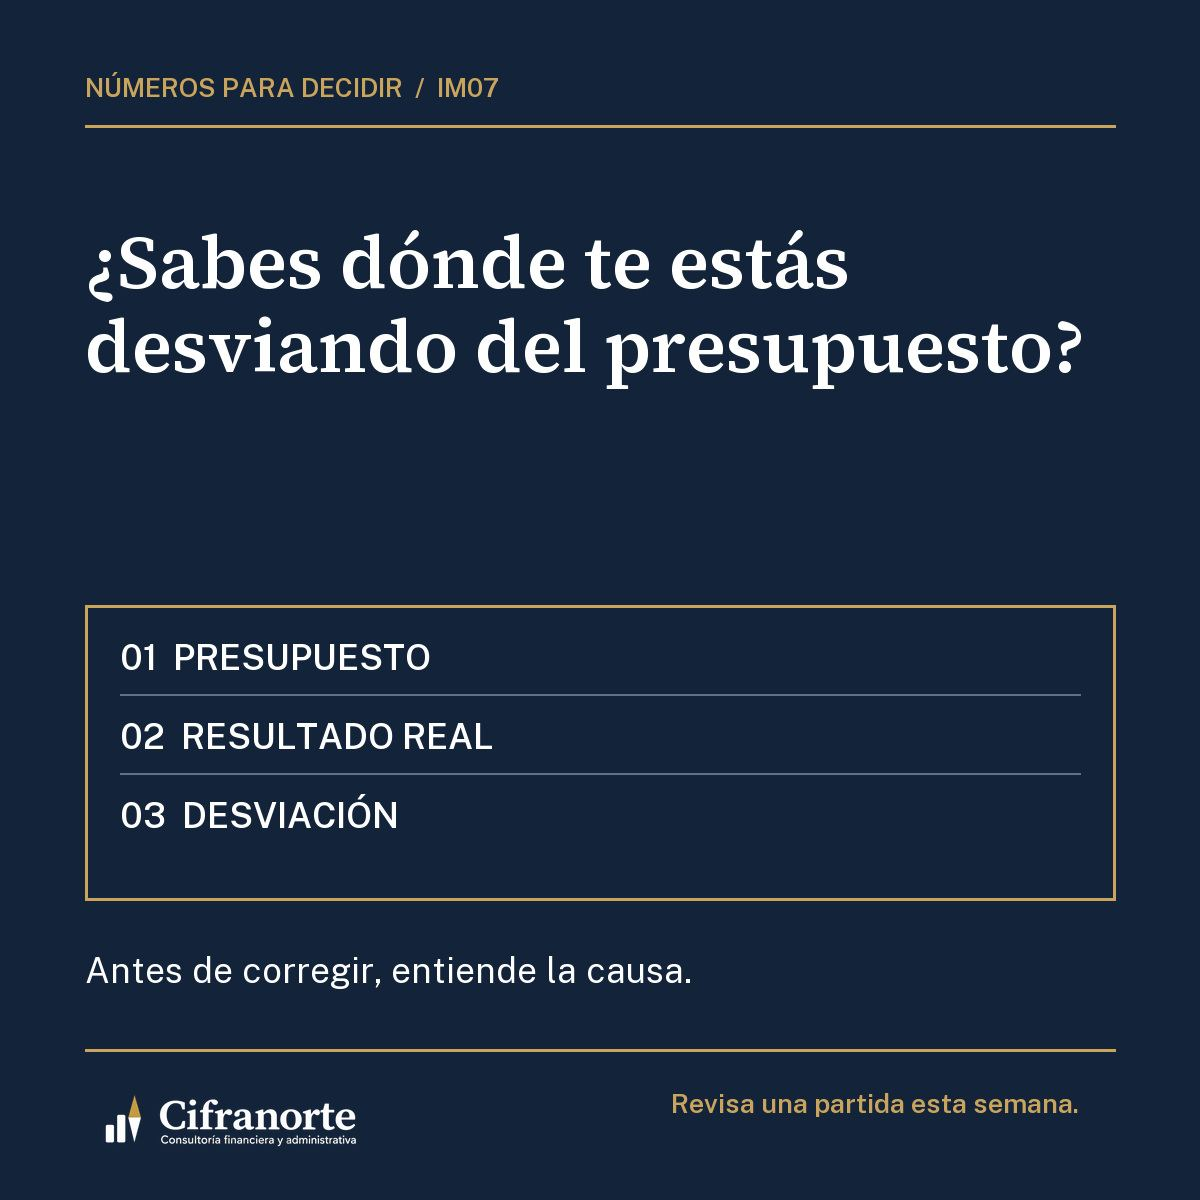
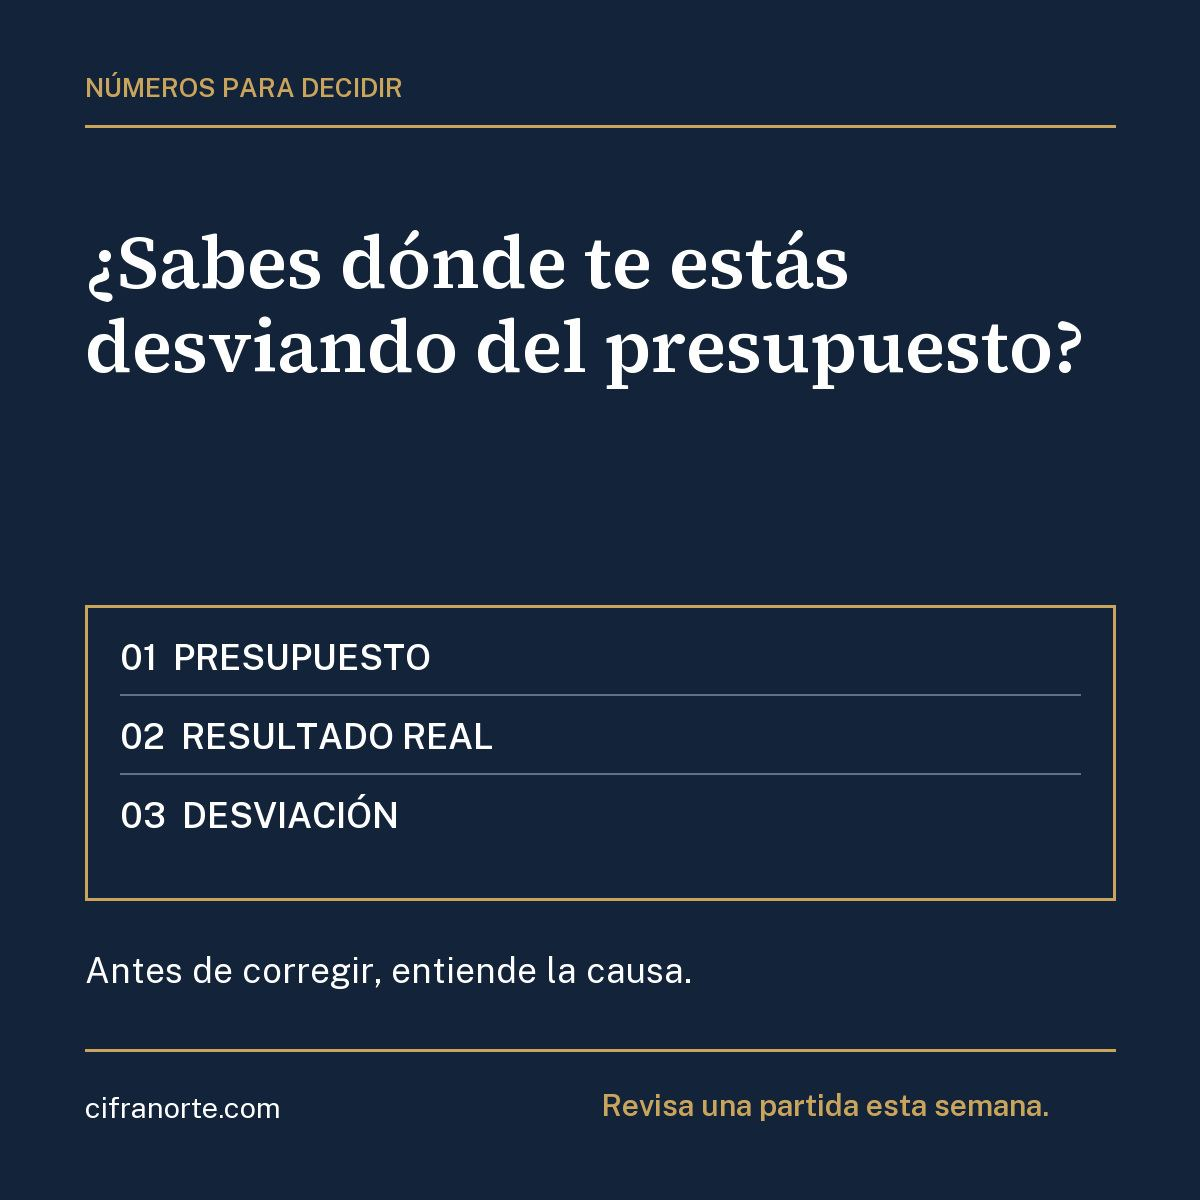
IM07: aplicar correcciones del primer dictamen de Claude

Changed region(s): [[0.4933, 0.8942, 0.8942, 0.9558], [0.0617, 0.8942, 0.3083, 0.9558], [0.3392, 0.0617, 0.4317, 0.0925]]

diff --git a/publicaciones/IM07_Guion_Editorial.md b/publicaciones/IM07_Guion_Editorial.md
@@ -5,14 +5,14 @@ Estado: producción en revisión. Ningún texto ni pieza está aprobado por Hugo
 ## Secuencia Instagram · 7 láminas
 
 1. **Portada.** «Presupuestar es el inicio. Comparar es lo que permite corregir.»
-2. **Presupuesto.** «1 / PRESUPUESTO» / «Define la referencia.» / «Qué esperabas para una partida y un periodo. Esa es la base para comparar.»
+2. **Presupuesto.** «1 / PRESUPUESTO» / «Define la referencia.» / «Lo que esperabas para una partida y un periodo. Esa es la base para comparar.»
 3. **Resultado real.** «2 / RESULTADO REAL» / «Observa lo que pasó.» / «Registra lo ocurrido en esa misma partida y en ese mismo periodo.»
-4. **Desviación.** «3 / DESVIACIÓN» / «Encuentra la diferencia.» / «Compara ambos resultados. La diferencia te indica dónde conviene investigar.»
-5. **Causa.** «La diferencia no se interpreta sola.» / «No es automáticamente un error. Revisa qué cambió: volumen, precio, momento o una decisión del periodo.»
-6. **Decisión.** «4 / DECISIÓN» / «Elige qué hacer.» / «Con la causa clara, ajusta una acción, actualiza la previsión o da seguimiento. Define responsable y fecha.»
-7. **Cierre.** «Una referencia para decidir» / «01 Presupuesto · 02 Resultado real · 03 Desviación · 04 Causa · 05 Decisión» / «Guarda el proceso.»
+4. **Desviación.** «3 / DESVIACIÓN» / «Encuentra la diferencia.» / «Compara lo planeado con lo real. La diferencia te indica dónde conviene investigar.»
+5. **Causa.** «4 / CAUSA» / «La diferencia no se interpreta sola.» / «No es automáticamente un error. Revisa qué cambió: volumen, precio, fechas de compra o cobro, o una decisión del periodo.»
+6. **Decisión.** «5 / DECISIÓN» / «Elige qué hacer.» / «Con la causa clara, ajusta una acción, actualiza la previsión o da seguimiento. Define responsable y fecha.»
+7. **Cierre.** «Una referencia para decidir» / «01 Presupuesto · 02 Resultado real · 03 Desviación · 04 Causa · 05 Decisión» / «Guarda el proceso.» / «cifranorte.com».
 
-La numeración de cuatro fases conserva la base conceptual aprobada; la causa es el paso de análisis entre desviación y decisión.
+La base conceptual aprobada conserva sus cuatro nodos principales; la causa se hace explícita como quinto paso de análisis entre desviación y decisión. La trayectoria usa cinco puntos en las láminas 02–06.
 
 ## Facebook · texto exacto dentro del gráfico
 
@@ -24,12 +24,14 @@ La numeración de cuatro fases conserva la base conceptual aprobada; la causa es
 
 «Revisa una partida esta semana.»
 
+Pie: «cifranorte.com».
+
 ## Dirección visual
 
 - Instagram: 1080 × 1350 px, siete JPG; Facebook: 1200 × 1200 px, un JPG.
 - Fuente oficial Source Serif 4 para titulares y Public Sans para información. Azul marino #13233A, dorado #C9A45C, blanco y superficie #F3F4F1. No usar colores de estado: aquí ninguna desviación está clasificada.
 - Retícula y línea Norte discretas; trayectoria ortogonal para conectar etapas. La comparación es conceptual, sin barras ni cifras que aparenten datos reales.
-- Logo horizontal oficial con área libre. Titulares amplios, texto breve, contraste alto y márgenes generosos.
+- Sin logotipo, siguiendo la firma aprobada por Hugo en IM06; «cifranorte.com» solo en el cierre del carrusel y en el pie del gráfico único. Titulares amplios, texto breve, contraste alto y márgenes generosos.
 
 ## Base documental
 

diff --git a/publicaciones/IM07_ESTADO.md b/publicaciones/IM07_ESTADO.md
@@ -1,6 +1,6 @@
 # IM07 · Estado de producción
 
-Fecha de registro: 9 de octubre de 2026. Estado: **borrador para revisión de Claude y Hugo**. Ninguna pieza de IM07 está aprobada ni programada.
+Fecha de registro: 9 de octubre de 2026. Estado: **primera revisión de Claude recibida; correcciones aplicadas, segunda revisión pendiente**. Ninguna pieza de IM07 está aprobada ni programada.
 
 ## Versión a revisar
 
@@ -8,12 +8,13 @@ Fecha de registro: 9 de octubre de 2026. Estado: **borrador para revisión de Cl
 - Instagram, 22 de octubre: `2026-10-22_instagram_IM07/COPY.txt` y `01.jpg`–`07.jpg` (carrusel).
 - Facebook, 22 de octubre: `2026-10-22_facebook_IM07/COPY.txt` y `01.jpg` (gráfico único + texto).
 - Guion editorial y dirección visual: `IM07_Guion_Editorial.md`.
+- Primer dictamen: `IM07_Dictamen_Claude_1.md`. LinkedIn apto; Instagram y Facebook requerían correcciones que se aplicaron en esta versión. Los tres COPY.txt no cambiaron.
 
 El Calendario Editorial v0.1 conserva hooks, CTA, formatos, objetivos y fechas. La secuencia añade la pregunta por la causa entre desviación y decisión. No hay cifras, testimonios ni casos reales en estas piezas. Una desviación no se presenta automáticamente como error.
 
-## Solicitud de dictamen a Claude
+## Revisión de Claude
 
-Revisar fidelidad a la Estrategia Editorial v0.1, al Calendario Editorial v0.1, al Manual de Identidad v2.1, al Método Rumbo y al ICP + Buyer Persona v0.1. Cotejar los tres copys y las ocho imágenes de este commit. Valorar claridad para dueño/director de pyme mexicana, criterio financiero, precisión sobre desviaciones, legibilidad y coherencia visual. Registrar hallazgos concretos por canal y dictamen apto/no apto. Las propuestas de cambio no equivalen a aprobación de Hugo.
+Primer dictamen en el [hilo del proyecto](https://claude.ai/code/project/chan_01PSVxPHWpw1gker4ESD36Tn?thread=cmsg_01PSVxPHWpw1gker4ESD36TnTnhx7e4X5FJa4MPwGyHs27), sobre commit `dc7920b08eb2a926b94a66aca038374c3d5bac4e`. Se retiraron logos y códigos internos de las piezas; se añadió `cifranorte.com` a los cierres; se corrigieron numeración, línea de avance y la frase «Compara lo planeado con lo real». Los detalles constan en el dictamen. Falta segunda revisión del commit corregido, con examen visual y cotejo del guion. Las propuestas de Claude no equivalen a aprobación de Hugo.
 
 ## Programación
 

diff --git a/publicaciones/IM07_Dictamen_Claude_1.md b/publicaciones/IM07_Dictamen_Claude_1.md
@@ -1,0 +1,27 @@
+# IM07 · Primer dictamen de Claude
+
+Fecha: 9 de octubre de 2026. Versión revisada: commit `dc7920b08eb2a926b94a66aca038374c3d5bac4e`.
+
+Fuente: [hilo «Revisión IM07 presupuesto contra real»](https://claude.ai/code/project/chan_01PSVxPHWpw1gker4ESD36Tn?thread=cmsg_01PSVxPHWpw1gker4ESD36TnTnhx7e4X5FJa4MPwGyHs27) en el proyecto «Marketing Orgánico - Cifranorte Revisión».
+
+## Veredicto
+
+- LinkedIn: **apto**. Copy sin correcciones necesarias.
+- Instagram y Facebook: **todavía no aptos**. Correcciones visuales y de precisión identificadas abajo. Claude no modificó ni programó archivos.
+
+## Correcciones necesarias señaladas
+
+1. Instagram 01–07: quitar logotipo de todas las láminas, poner `cifranorte.com` solo en la 07 y corregir la línea contraria del guion. Facebook 01: quitar logotipo y poner dominio en pie, siguiendo la decisión de firma usada en IM06.
+2. Instagram 01: quitar el código interno `IM07 /`. Facebook 01: quitar `/ IM07` de la etiqueta superior.
+3. Instagram 05–07: numerar Causa como paso 4 y Decisión como paso 5; usar cinco puntos en la línea de avance de 02–06 y actualizar el guion.
+4. Instagram 04: sustituir «Compara ambos resultados» por «Compara lo planeado con lo real»; el presupuesto no es un resultado.
+
+## Mejoras opcionales señaladas
+
+- Instagram 05: precisar «momento» como «fechas de compra o cobro».
+- Instagram 07: separar «Guarda el proceso.» de la línea dorada cuando entre el dominio.
+- Instagram 02: «Lo que esperabas…» en lugar de «Qué esperabas…».
+- Facebook 01: dar más peso al CTA del pie.
+- LinkedIn: «su efecto en las prioridades del negocio» podría concretarse, pero no bloquea aprobación.
+
+Claude confirmó hooks y CTA literales, coherencia conceptual, ausencia de cifras o casos inventados, y uso de la paleta, fuentes y tamaños vigentes. Las correcciones necesarias y las opcionales de diseño citadas arriba se aplicaron en la versión local posterior al dictamen. Los tres COPY.txt siguen sin cambios.
